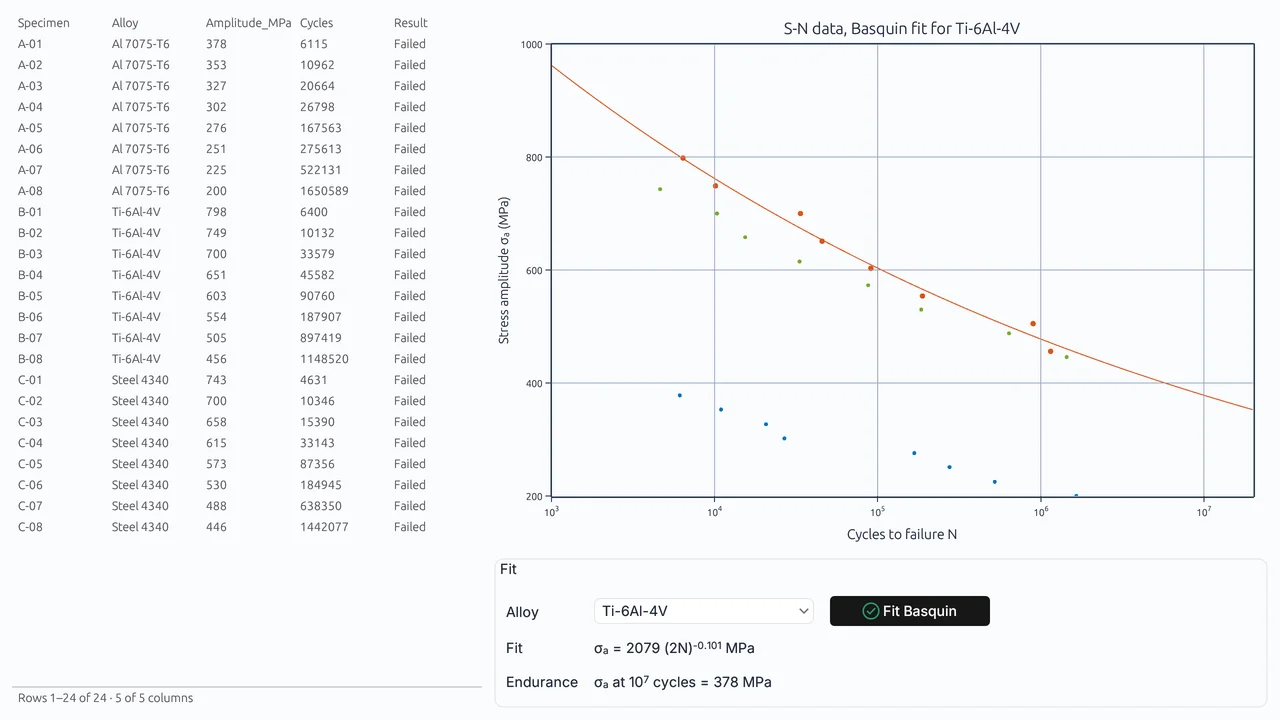
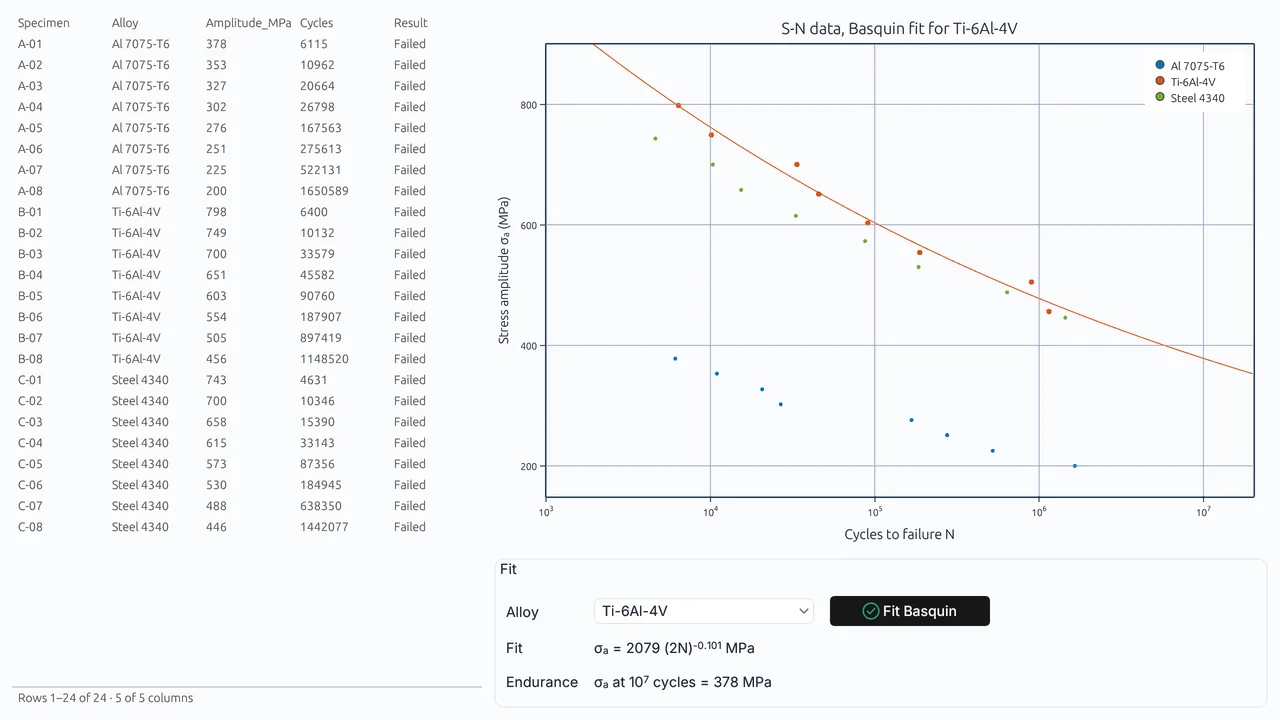
Fatigue test log: S-N legend names the three alloys and the stress axis includes every point

diff --git a/apps/fatigue-test-log/fatigue-test-log.m b/apps/fatigue-test-log/fatigue-test-log.m
@@ -62,14 +62,15 @@ function fitAlloy(ui, results, alloys)
     sel = ui.alloy.Value;
     cla(ui.ax);
     hold(ui.ax, 'on');
+    % Failed specimens first: legend labels the first three plotted objects.
     for k = 1:numel(alloys)
-        r = strcmp(results.Alloy, alloys{k});
-        failed = r & strcmp(results.Result, 'Failed');
-        runout = r & strcmp(results.Result, 'Runout');
-        sz = 36 + 30*(k == sel);
-        scatter(ui.ax, results.Cycles(failed), results.Amplitude_MPa(failed), sz, colors(k,:), 'filled');
-        if any(runout)   % open markers: runouts
-            scatter(ui.ax, results.Cycles(runout), results.Amplitude_MPa(runout), sz, colors(k,:));
+        failed = strcmp(results.Alloy, alloys{k}) & strcmp(results.Result, 'Failed');
+        scatter(ui.ax, results.Cycles(failed), results.Amplitude_MPa(failed), 36 + 30*(k == sel), colors(k,:), 'filled');
+    end
+    for k = 1:numel(alloys)   % open markers: runouts
+        runout = strcmp(results.Alloy, alloys{k}) & strcmp(results.Result, 'Runout');
+        if any(runout)
+            scatter(ui.ax, results.Cycles(runout), results.Amplitude_MPa(runout), 36 + 30*(k == sel), colors(k,:));
         end
     end
     r = strcmp(results.Alloy, alloys{sel}) & strcmp(results.Result, 'Failed');
@@ -80,6 +81,9 @@ function fitAlloy(ui, results, alloys)
     set(ui.ax, 'XScale', 'log');
     grid(ui.ax, 'on');
     xlim(ui.ax, [1e3 2e7]);
+    % Pad the stress range so the lowest and highest points sit inside the axes.
+    ylim(ui.ax, [50*floor(0.9*min(results.Amplitude_MPa)/50), 50*ceil(1.08*max(results.Amplitude_MPa)/50)]);
+    legend(ui.ax, alloys{:}, 'Location', 'northeast');
     title(ui.ax, sprintf('S-N data, Basquin fit for %s', alloys{sel}));
     xlabel(ui.ax, 'Cycles to failure N');
     ylabel(ui.ax, 'Stress amplitude \sigma_a (MPa)');
